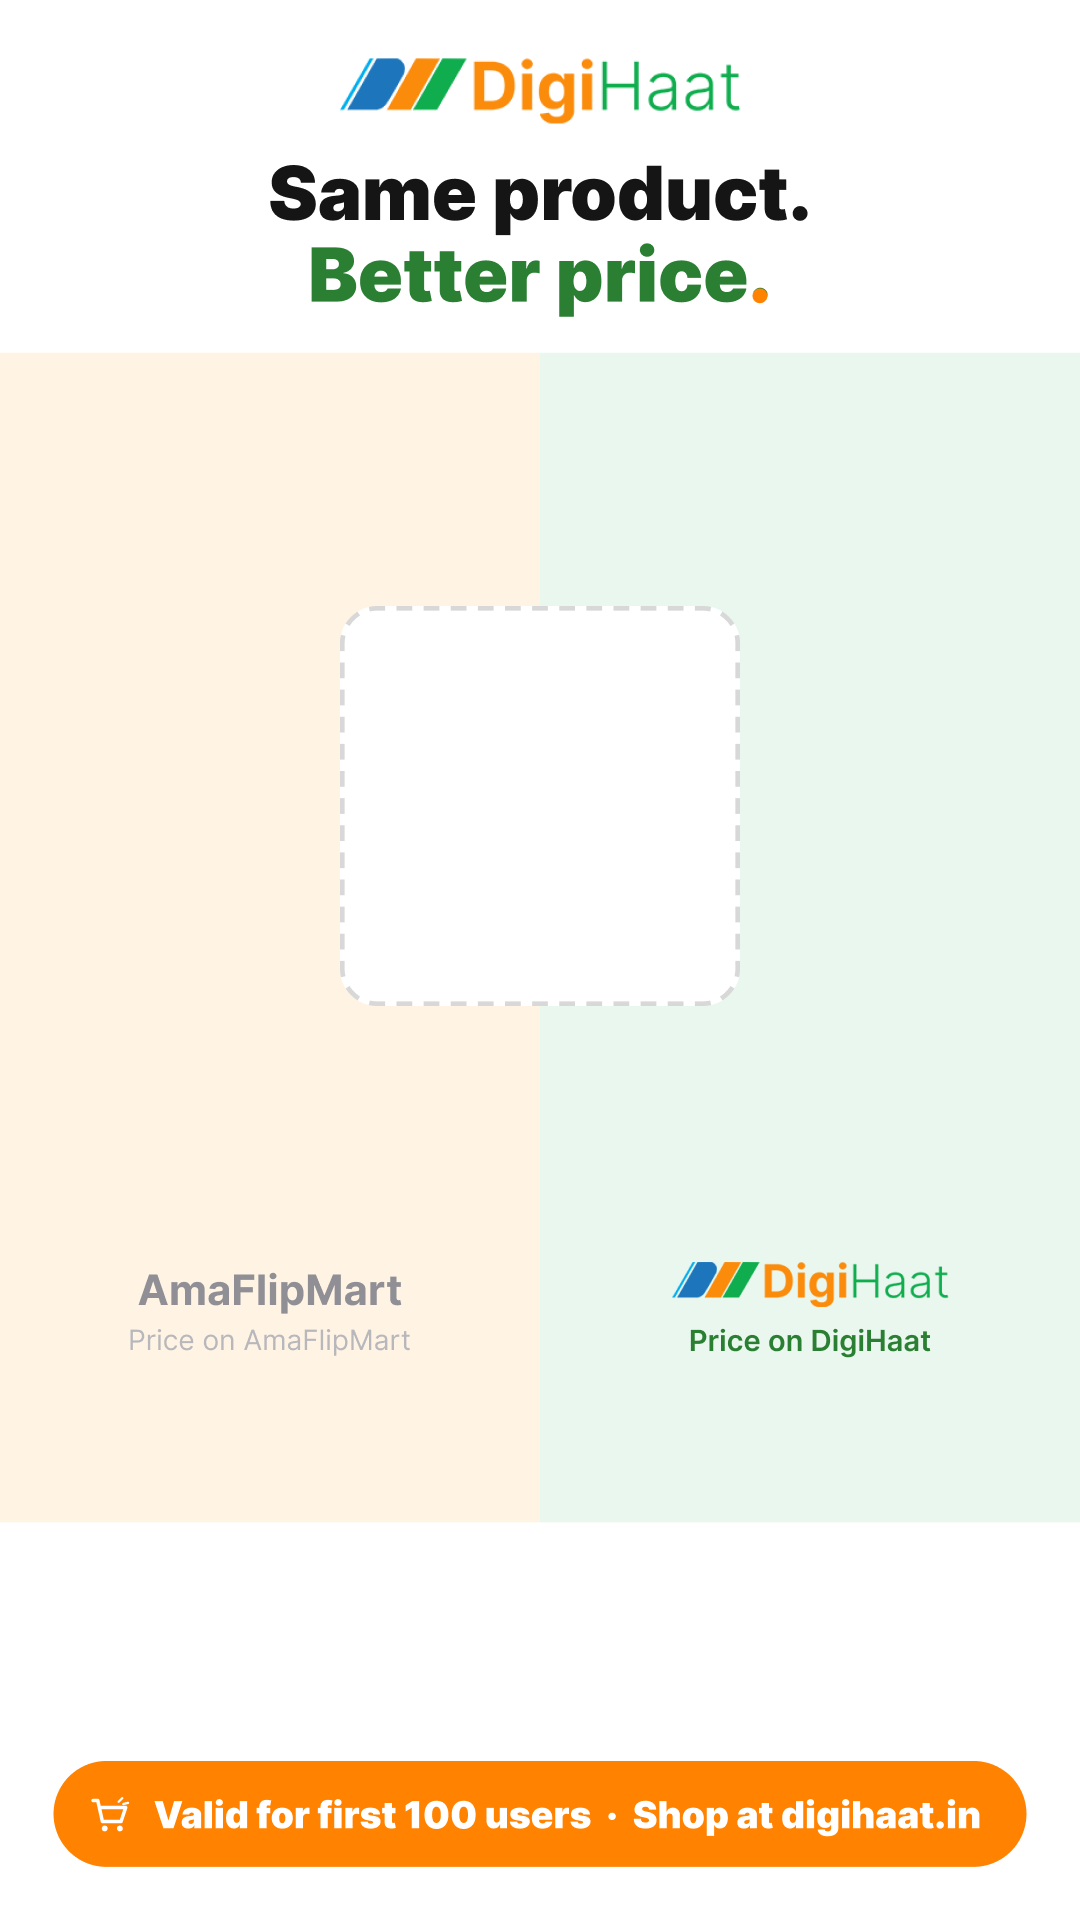
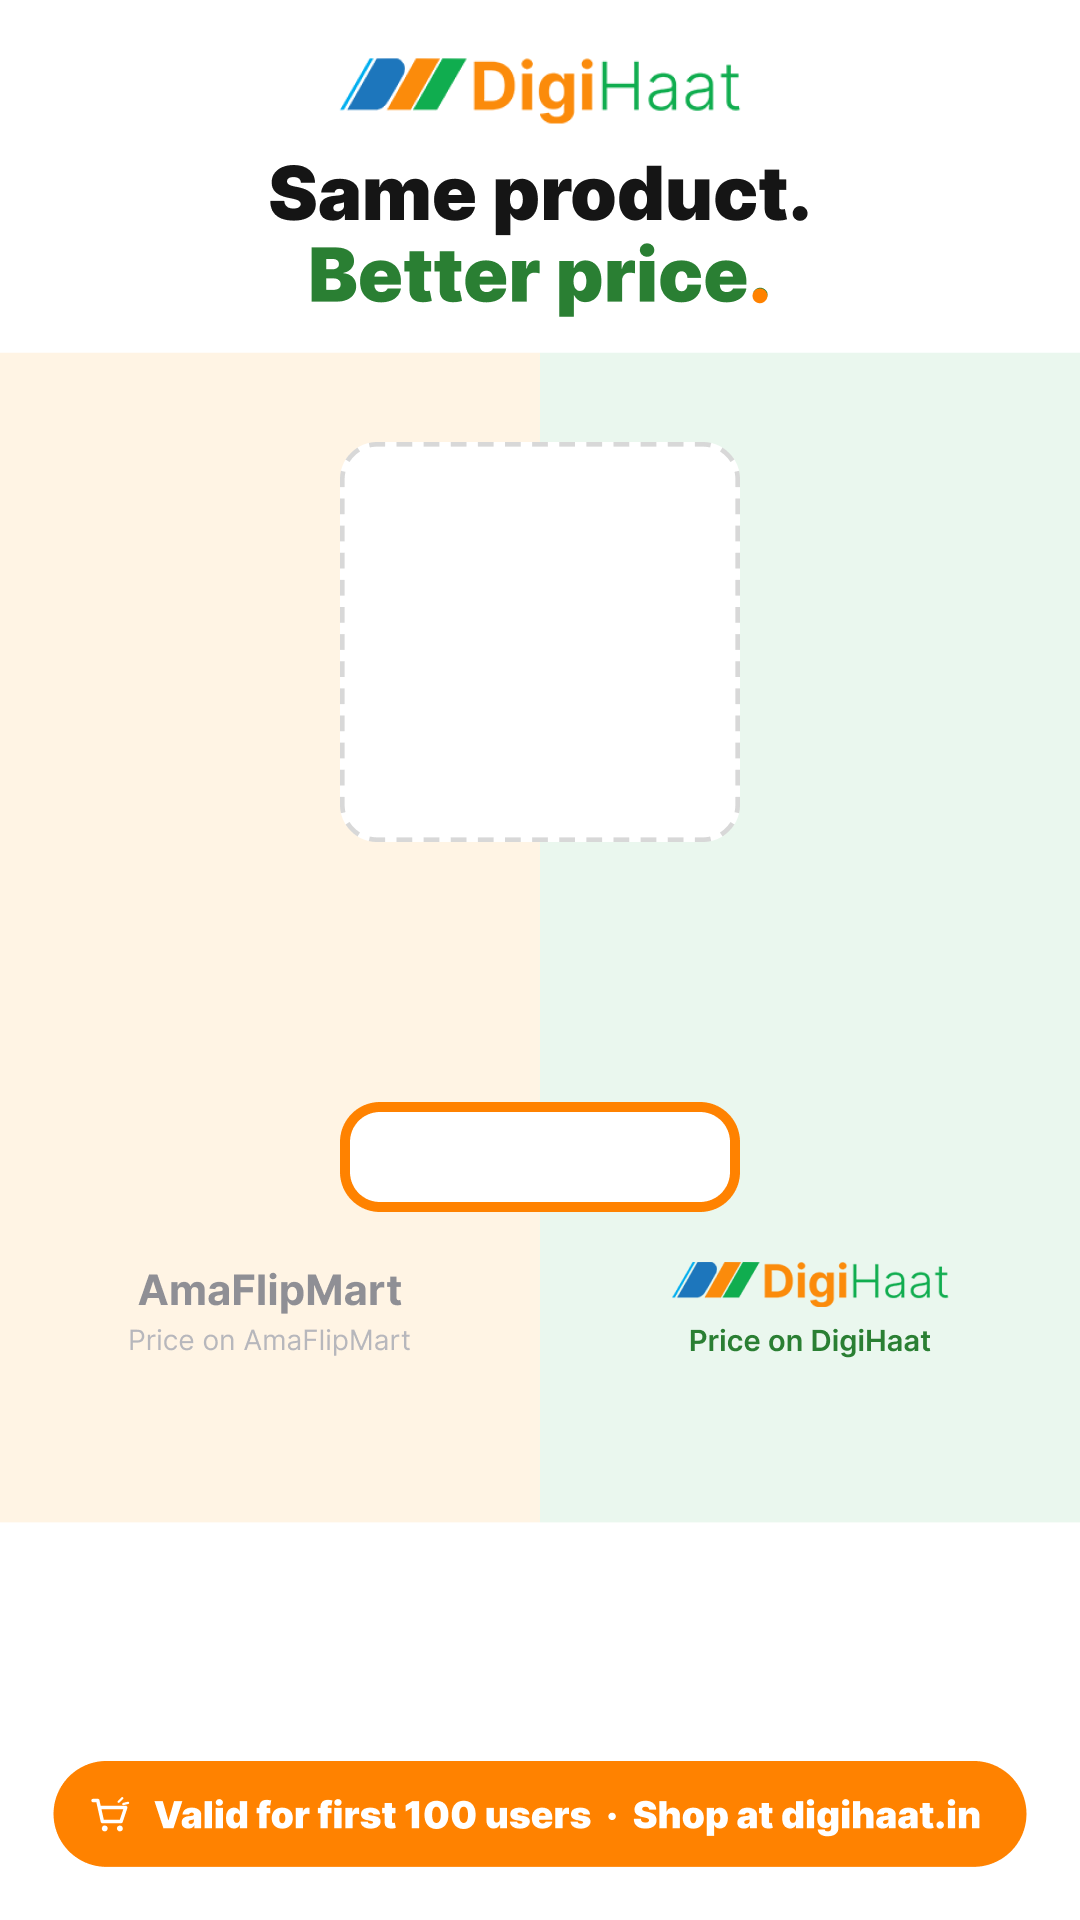
FIX: New BG and Image placement

Changed region(s): [[0.3056, 0.5625, 0.7028, 0.6562], [0.3056, 0.2188, 0.5194, 0.3438], [0.3056, 0.4062, 0.5194, 0.5312]]

diff --git a/renderer.py b/renderer.py
@@ -143,7 +143,7 @@ def render_story(
     paste_product_image_cover(
         canvas,
         product_img,
-        (250 * SCALE, 500 * SCALE, 650 * SCALE, 650 * SCALE),
+        (240 * SCALE, 450 * SCALE, 650 * SCALE, 650 * SCALE),
         scale=image_scale,
         offset_x=image_offset_x * SCALE,
         offset_y=image_offset_y * SCALE
